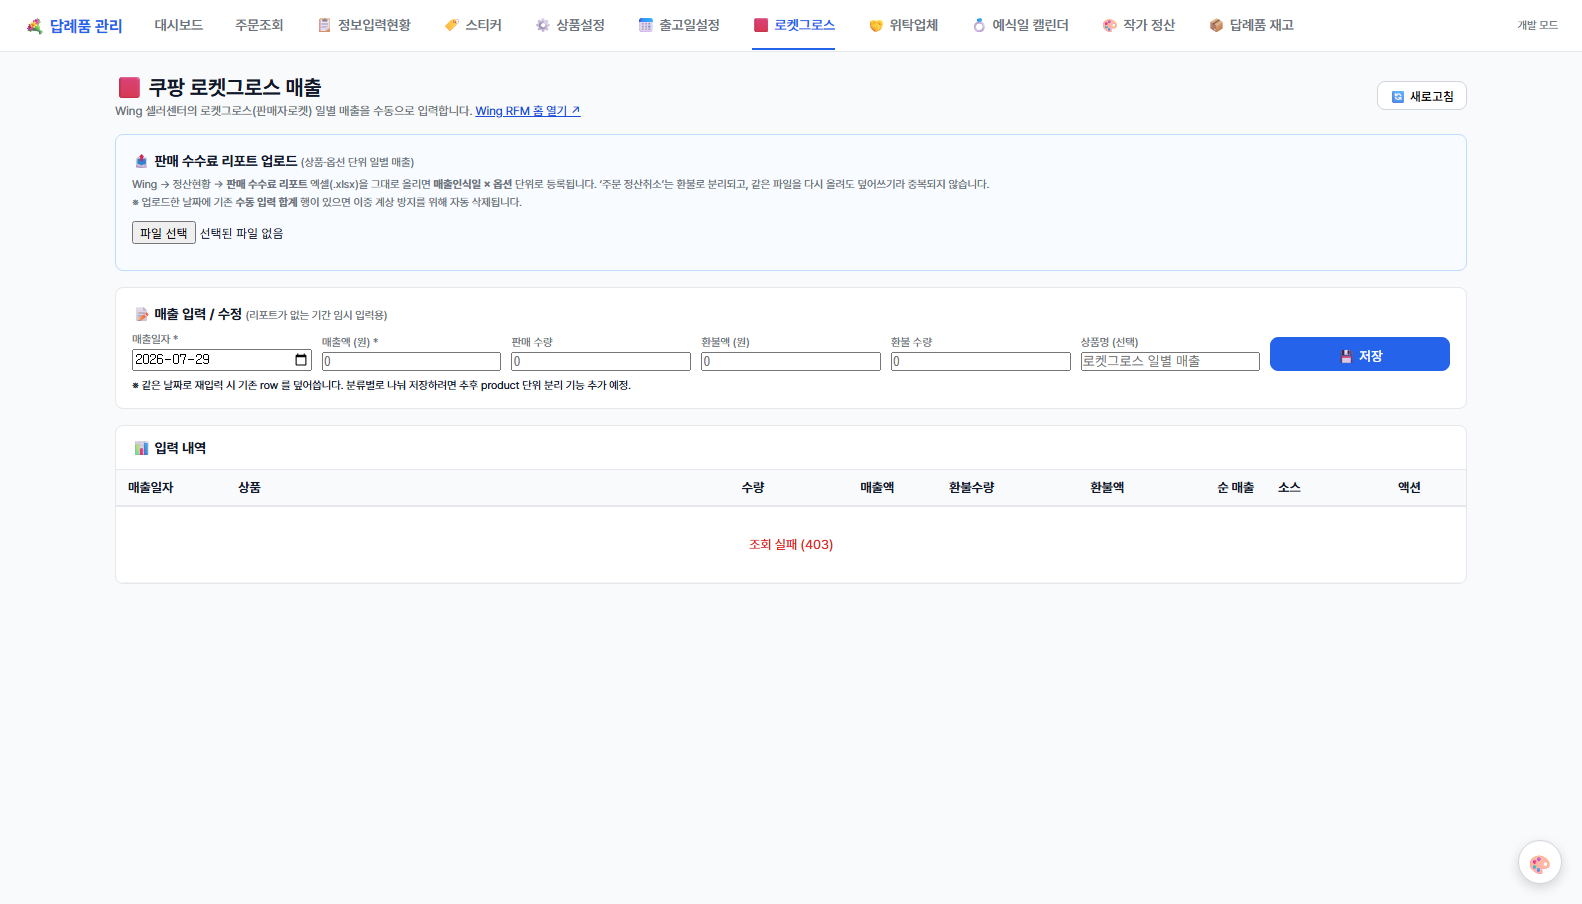
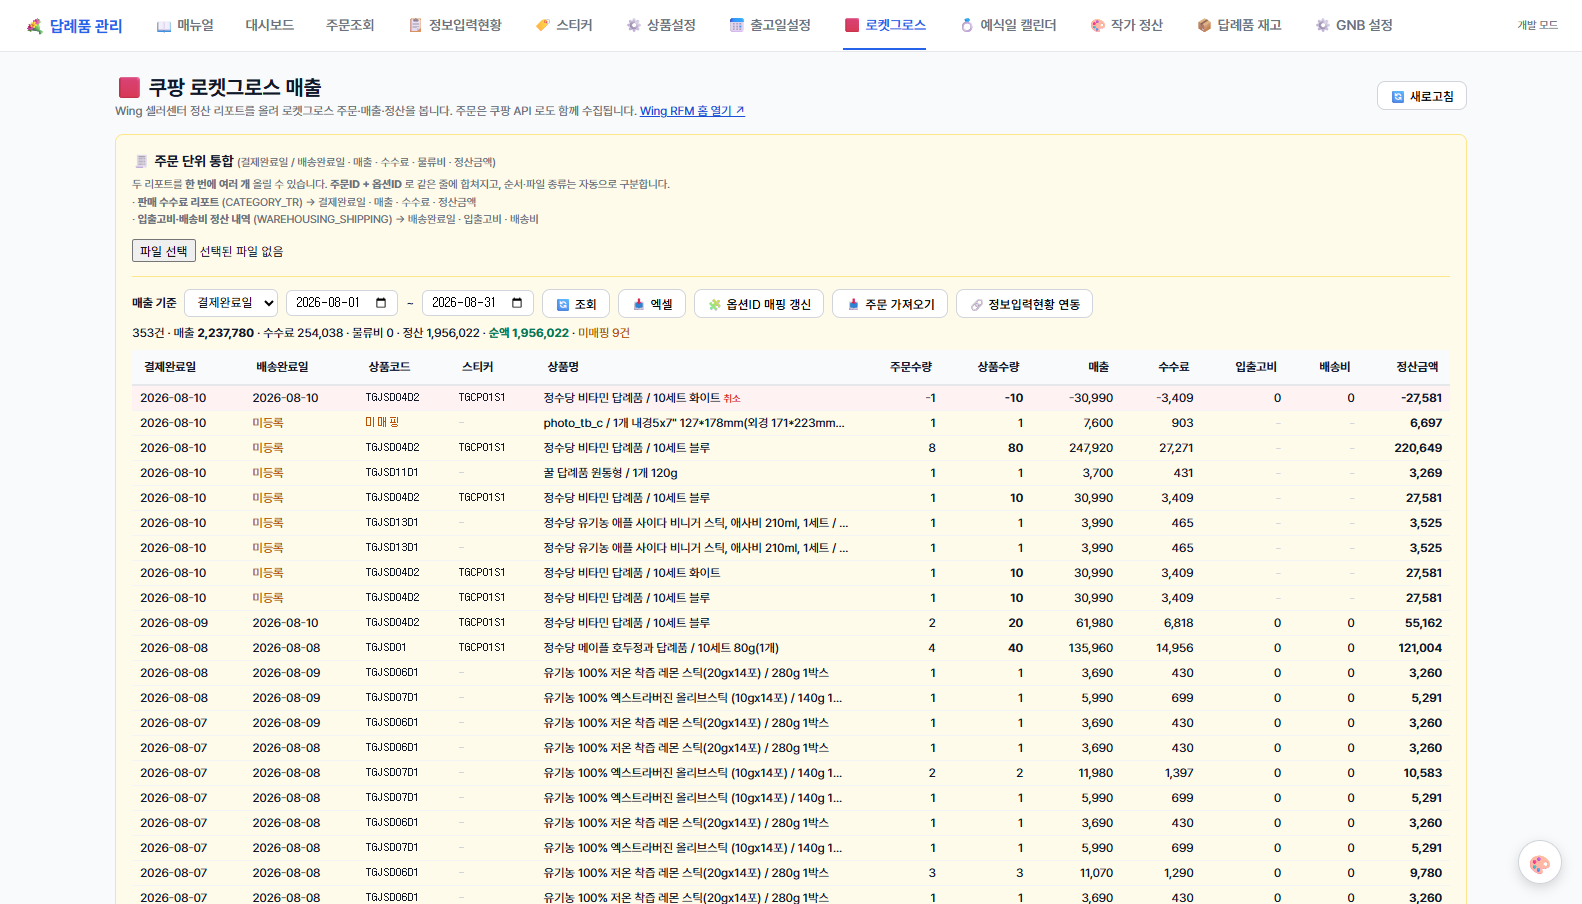
docs: 매뉴얼 스크린샷 4장 갱신 + 로켓그로스 페이지 설명 정정
오늘 바뀐 화면이 매뉴얼 이미지와 달라져 다시 찍었다 (기존과 같은 1582x904).
  · coupang-rfm  주문 단위 목록 · 주문수량/상품수량 · 상품코드/스티커 · 새 버튼 3종
  · bg-unified   쿠팡창고 탭 (취소 제외 상태) · 입력일시의 로켓그로스 구분
  · stock        쿠팡창고 열 · 쿠팡재고 갱신 버튼
  · bg-products  채널 탭 (자사/쿠팡) · 쿠팡 배지

수취인·연락처·배송지 계열 열은 캡처 전에 흐리게 처리했다 — 이미지는 저장소에
남으므로 원본이 들어가면 안 된다.

함께 고친 것:
  · 로켓그로스 페이지 부제가 '일별 매출을 수동으로 입력합니다' 로 남아 있었다.
    수동 입력은 진작 걷어냈고 지금은 리포트 업로드 + API 수집이다
  · 매뉴얼 13장에 네이버 구매확정일 채우기(매일 04:10) 추가
  · 개발모드(GOOGLE_CLIENT_ID 미설정)에서 역할 게이트를 통과시킨다.
    로그인은 우회되는데 세션이 없어 권한이 필요한 화면이 로컬에서 통째로 403 이었다.
    운영에는 GOOGLE_CLIENT_ID 가 반드시 있어 이 분기가 켜지지 않는다

diff --git a/pricing-prototype/daeryepum/manual.html b/pricing-prototype/daeryepum/manual.html
@@ -455,6 +455,7 @@ code{background:var(--gray-100);padding:2px 6px;border-radius:4px;font-size:12px
   <tr><th>작업</th><th>주기</th><th>방식</th></tr>
   <tr><td>쿠팡 / 네이버 / 정수당 주문 동기화</td><td>약 30분 간격</td><td>외부 스케줄러(cron-job.org)가 API 호출</td></tr>
   <tr><td>쿠팡 동기화 (마켓플레이스 + 로켓그로스 + 옵션ID 맵)</td><td>15분 간격</td><td>서버 내부 스케줄 — 외부 설정 불필요</td></tr>
+  <tr><td>네이버 구매확정일 채우기</td><td>매일 04:10</td><td>서버 내부 스케줄 — 자동 구매확정이 늦게 걸려 동기화가 놓친 건을 메움</td></tr>
   <tr><td>답례품 재고 슬랙 알림</td><td>매일 지정 시각</td><td>서버 내부 스케줄 (재고 화면에서 시각 변경)</td></tr>
   <tr><td>주문 RAW 시트 동기화</td><td>매일 03:00</td><td>서버 내부 스케줄</td></tr>
   <tr><td>화환·청첩장 데일리 리포트 (Slack)</td><td>매일 00:02</td><td>별도 컨테이너 (사업운영-본부 채널 발송)</td></tr>

diff --git a/pricing-prototype/daeryepum/server.js b/pricing-prototype/daeryepum/server.js
@@ -99,6 +99,10 @@ const SUPER_ADMIN_EMAILS = (process.env.SUPER_ADMIN_EMAILS || 'sejun.song@barunn
   .split(',').map(s => s.trim().toLowerCase()).filter(Boolean);
 
 function isSuperAdmin(session) {
+  // 개발모드(GOOGLE_CLIENT_ID 미설정)는 로그인 자체를 우회한다. 그런데 세션이 없으니
+  //   역할 게이트가 걸린 화면은 통째로 403 이 돼 로컬에서 열어볼 수 없었다.
+  //   운영에는 GOOGLE_CLIENT_ID 가 반드시 있어 이 분기가 켜지지 않는다.
+  if (DEV_SKIP_AUTH) return true;
   if (!session || !session.email) return false;
   return SUPER_ADMIN_EMAILS.includes(String(session.email).toLowerCase());
 }

diff --git a/pricing-prototype/daeryepum/index.html b/pricing-prototype/daeryepum/index.html
@@ -1123,7 +1123,7 @@ nav.nav-loading a[href^="#"] {
     <div>
       <h2 style="margin:0">🟥 쿠팡 로켓그로스 매출</h2>
       <div style="font-size:12px;color:var(--gray-500);margin-top:4px">
-        Wing 셀러센터의 로켓그로스(판매자로켓) 일별 매출을 수동으로 입력합니다.
+        Wing 셀러센터 정산 리포트를 올려 로켓그로스 주문·매출·정산을 봅니다. 주문은 쿠팡 API 로도 함께 수집됩니다.
         <a href="https://wing.coupang.com/tenants/rfm/rfm-home/view" target="_blank" rel="noopener" style="color:#1d4ed8">Wing RFM 홈 열기 ↗</a>
       </div>
     </div>
